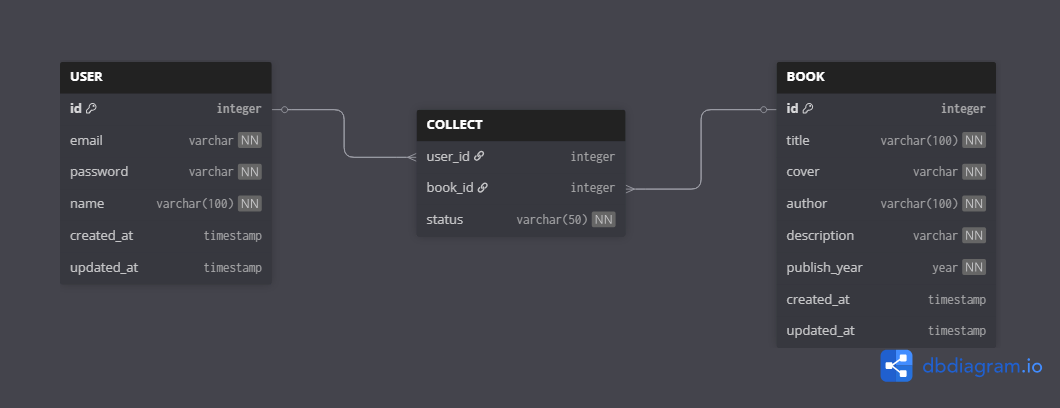
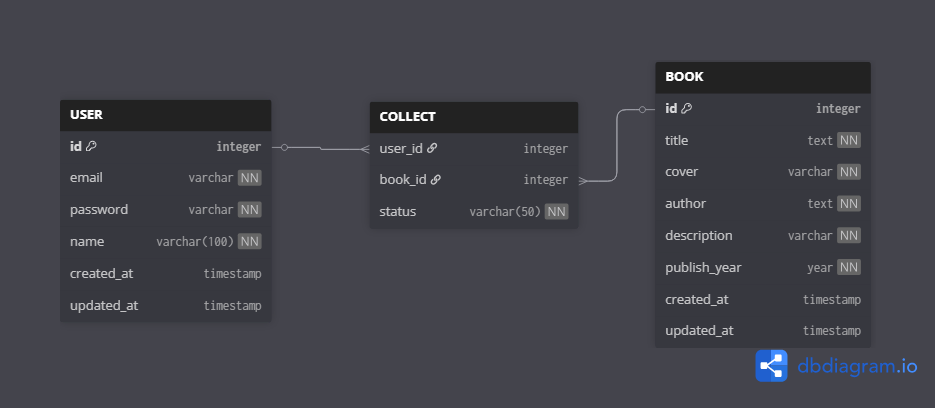
changement type de données

diff --git a/Cahier des charges/Modelisation/dictionnaire de données.md b/Cahier des charges/Modelisation/dictionnaire de données.md
@@ -16,9 +16,9 @@
 | Attibut      | Description                      | Types de données | Format                         | Contrainte                           |
 | ------------ | -------------------------------- | ---------------- | ------------------------------ | ------------------------------------ |
 | id           | Identifiant du livre             | INTEGER          | Entier positif auto-incrémenté | Clé primaire AUTO_INCREMENT NOT NULL |
-| title        | Titre du livre                   | VARCHAR(100)     | Max 100 caractères             | NOT NULL                             |
+| title        | Titre du livre                   | TEXT             | Max 100 caractères             | NOT NULL                             |
 | cover        | URL ou chemin vers l'image       | VARCHAR          | Max 255 caractères             | NOT NULL                             |
-| author       | Nom de l'auteur du livre         | VARCHAR(100)     | Max 100 caractères             | NOT NULL                             |
+| author       | Nom de l'auteur du livre         | TEXT             | Max 100 caractères             | NOT NULL                             |
 | description  | Description du livre             | TEXT             | Max 255 caractères             | NOT NULL                             |
 | publish_year | Année de publication du livre    | SMALLINT         | YYYY                           | NOT NULL                             |
 | created_at   | Date de création du livre        | TIMESTAMP        | YYYY-MM-DD HH:MM:SS            |
